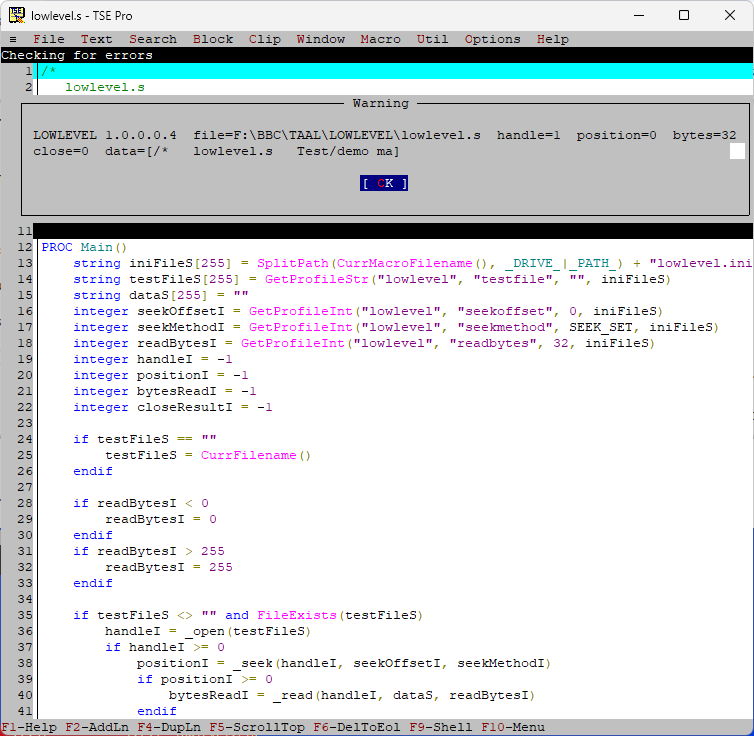
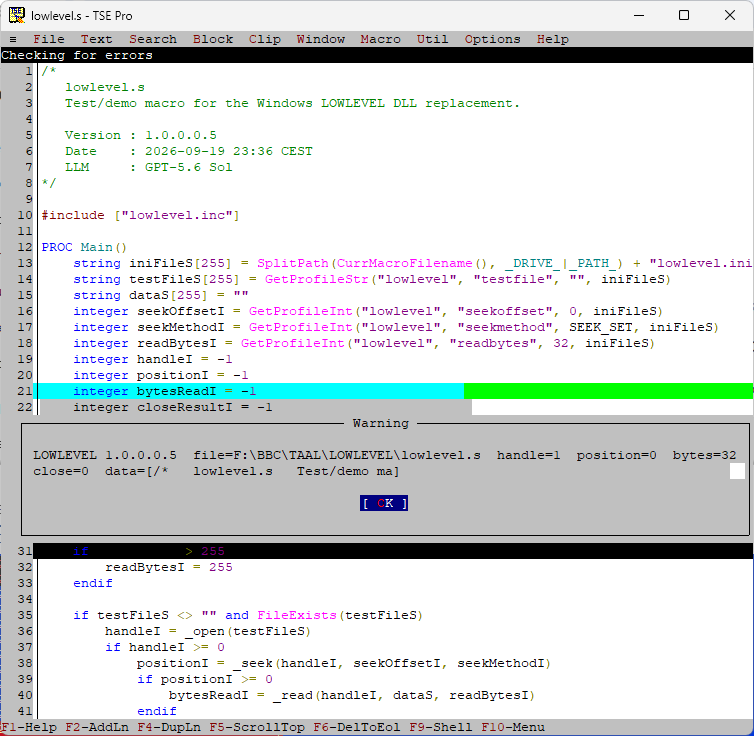
Update lowlevel directory files

diff --git a/LOWLEVEL/lowlevel.cpp b/LOWLEVEL/lowlevel.cpp
@@ -2,7 +2,7 @@
    lowlevel.cpp
    Windows replacement for the original LOWLEVEL.BIN DOS helper.
 
-   Version : 1.0.0.0.4
+   Version : 1.0.0.0.5
    Date    : 2026-09-19 23:36 CEST
    LLM     : GPT-5.6 Sol
 

diff --git a/LOWLEVEL/lowlevel_readme.md b/LOWLEVEL/lowlevel_readme.md
@@ -1,7 +1,7 @@
 # LOWLEVEL for TSE on Microsoft Windows
 
-**Version:** 1.0.0.0.4  
-**Date and time:** 2026-09-19 23:36 CEST  
+**Version:** 1.0.0.0.5  
+**Date and time:** 2026-09-20 00:08 CEST  
 **LLM:** GPT-5.6 Sol
 
 ## Description
@@ -16,7 +16,7 @@ The original package contained:
 
 The old `LOWLEVEL.BIN` is 16-bit DOS machine code. It calls DOS interrupt `21h` for opening, seeking, reading and closing a file. That binary mechanism is not appropriate for the 32-bit Microsoft Windows version of TSE.
 
-Version **1.0.0.0.4** replaces that DOS binary with a **32-bit Microsoft Windows DLL** written in C++ and intended to be compiled with **Borland C++ 5.5.1**. The public SAL interface deliberately keeps the familiar routines:
+Version **1.0.0.0.4** established the working Windows conversion. Version **1.0.0.0.5** keeps that working implementation and cleans up the package by removing the duplicate historical `LOWLEVEL.INC`. The DOS binary is replaced by a **32-bit Microsoft Windows DLL** written in C++ and intended to be compiled with **Borland C++ 5.5.1**. The public SAL interface deliberately keeps the familiar routines:
 
 ```text
 _open(path)
@@ -27,11 +27,13 @@ _close(handle)
 
 This means old SAL code that used the four LOWLEVEL operations can usually be converted simply by including the new `lowlevel.inc` and placing `lowlevel.dll` with the macro files.
 
-### Version 1.0.0.0.4 calling-convention correction
+### Working calling convention
 
-Runtime testing of version 1.0.0.0.1 showed that `_open()` and `_close()` worked, while the three-argument `_seek()` failed. A one-argument call does not reveal argument-order differences, but a multi-argument call does. Version 1.0.0.0.4 therefore changes the Borland DLL exports from `__pascal` to Win32 `__pascal`. The SAL declarations remain unchanged.
+Runtime testing established the correct interface in version **1.0.0.0.4**: the Borland DLL uses `__pascal`, and every matching SAL declaration explicitly uses the `PASCAL` modifier. With that combination, `_open()`, `_seek()`, `_read()`, and `_close()` all work correctly from TSE.
 
-Both SAL source files now include the local interface with TSE's current-directory syntax:
+Version **1.0.0.0.5** does not change that working ABI. It only removes the duplicate historical include file from the ZIP and updates the package/version documentation.
+
+Both SAL source files include the local interface with TSE's current-directory syntax:
 
 ```text
 #include ["lowlevel.inc"]
@@ -70,11 +72,12 @@ The DLL uses the **Win32 `__pascal` calling convention**. TSE's 32-bit DLL inter
 
 ### Original historical files
 
-The package also keeps the original files for reference:
+The package keeps these original files for reference:
 
 - `LOWLEVEL.ASM`
 - `LOWLEVEL.BIN`
-- `LOWLEVEL.INC`
+
+The historical `LOWLEVEL.INC` is intentionally **not** included, because Windows ZIP tools treat `LOWLEVEL.INC` and `lowlevel.inc` as the same filename and rename one of them to `LOWLEVEL(1).INC`. The package therefore contains only the working Windows include file: `lowlevel.inc`.
 
 Do **not** use the original `LOWLEVEL.BIN` with the Windows conversion.
 
@@ -186,7 +189,7 @@ lowlevel_demo.mac
 A successful result should show values similar to:
 
 ```text
-LOWLEVEL 1.0.0.0.4  position=0  bytes=80  data=[...]  close=0
+LOWLEVEL 1.0.0.0.5  handle=1  position=0  bytes=80  data=[...]  close=0
 ```
 
 A `close=0` result means `_close()` succeeded.
@@ -352,14 +355,20 @@ A typical use is examining a file header, archive signature, executable header, 
 
 ## Version 1.0.0.0.4 ABI correction
 
-Runtime testing showed that `LOWOPEN` and `LOWCLOSE` worked, while the three-argument `LOWSEEK` returned `-1`. This indicated that the handle itself was valid but the arguments of multi-parameter DLL calls were reaching the Borland Win32 entry point in the opposite order.
+Runtime testing showed that `LOWOPEN` and `LOWCLOSE` worked while the three-argument `LOWSEEK` returned `-1`. The cause was that the SAL DLL declarations did not explicitly specify the Pascal calling convention.
 
-Version 1.0.0.0.4 therefore keeps the SAL declarations unchanged but reverses the C parameter declarations for the multi-argument exports:
+Version 1.0.0.0.4 fixed this by keeping the Borland exports as `__pascal` and adding `PASCAL` to all four SAL DLL declarations in `lowlevel.inc`. With this correction, runtime testing succeeded for all four functions: `_open()`, `_seek()`, `_read()`, and `_close()`.
 
-- SAL `_seek(handle, offset, method)` maps to C `LOWSEEK(method, offset, handle)`.
-- SAL `_read(handle, buffer, bytes)` maps to C `LOWREAD(bytes, maxLen, buffer, handle)`, including the hidden TSE string maximum-length argument.
+The working interface is:
 
-This preserves the original SAL-facing API while compensating inside the DLL for the stack order used by the TSE DLL interface. The final test warning also shows the numeric handle to make runtime verification easier.
+```text
+dll "lowlevel.dll"
+    integer proc PASCAL _open(string path : cstrval) : "LOWOPEN"
+    integer proc PASCAL _seek(integer handle, integer offset, integer method) : "LOWSEEK"
+    integer proc PASCAL _read(integer handle, var string buffer, integer bytes) : "LOWREAD"
+    integer proc PASCAL _close(integer handle) : "LOWCLOSE"
+end
+```
 
 ## Version history
 
@@ -367,7 +376,7 @@ This preserves the original SAL-facing API while compensating inside the DLL for
 
 - Converted the original DOS interrupt `21h` implementation to a 32-bit Microsoft Windows DLL design.
 - Added `lowlevel.cpp` for Borland C++ 5.5.1.
-- Initially used `__pascal` exports; runtime testing later showed that multi-argument DLL calls require the Win32 `__pascal` convention used in version 1.0.0.0.4.
+- Used Borland `__pascal` exports. Runtime testing later showed that the SAL declarations also needed the explicit `PASCAL` modifier.
 - Added `lowlevel.def` with stable export names.
 - Added `build.bat`.
 - Configured `TDUMP=G:\LANGUAGE\COMPUTER\CPP\EMBARCADERO\BORLAND\BCC102\bin\tdump.exe`.
@@ -386,30 +395,31 @@ This preserves the original SAL-facing API while compensating inside the DLL for
 - Added `lowlevel_demo.s`.
 - Verified that the DLL builds and exports `LOWOPEN`, `LOWSEEK`, `LOWREAD`, and `LOWCLOSE`.
 
-### 1.0.0.0.4 - 2026-09-19 23:36 CEST
+### 1.0.0.0.2 - 2026-09-19 23:01 CEST
 
-- Changed all DLL exports from Borland `__pascal` to Win32 `__pascal` after runtime testing showed `_seek()` receiving multi-argument calls incorrectly.
 - Changed local SAL includes to `#include ["lowlevel.inc"]`.
-- Removed `EXIT /B` from the successful end of `build.bat` to avoid the extra JPSoft TCC `exit:` help line.
-- Updated `lowlevel.s`, `lowlevel_demo.s`, `lowlevel.cpp`, `lowlevel.def`, `lowlevel.inc`, and this README to version 1.0.0.0.4.
-- No precompiled `lowlevel.dll` is shipped in this iteration because the previous DLL was built from the 1.0.0.0.1 `__pascal` source. Run `build.bat` to create the corrected DLL.
+- Continued runtime testing of the DLL interface.
+
+### 1.0.0.0.3 - 2026-09-19 23:27 CEST
+
+- Added more runtime diagnostics, including the numeric LOWLEVEL handle.
+- Continued investigation of the multi-argument calling convention.
+
+### 1.0.0.0.4 - 2026-09-19 23:41 CEST
+
+- Established the working ABI.
+- Kept the DLL exports as Borland `__pascal`.
+- Added `PASCAL` explicitly to all four SAL DLL declarations in `lowlevel.inc`.
+- Verified at runtime that `_open()`, `_seek()`, `_read()`, and `_close()` all succeed.
+
+### 1.0.0.0.5 - 2026-09-20 00:08 CEST
+
+- Removed the duplicate historical `LOWLEVEL.INC` from the ZIP.
+- The package now contains exactly one include file: `lowlevel.inc`.
+- Kept `LOWLEVEL.ASM` and `LOWLEVEL.BIN` as historical reference files.
+- Kept the fully working 1.0.0.0.4 DLL/SAL calling convention unchanged.
+- Updated version numbers and this README.
 
 ## Important build note
 
 This package contains the complete C++ DLL source and Borland build script. The DLL binary itself must be produced by running `build.bat` on Windows with Borland C++ 5.5.1 available. The current packaging environment does not contain the Borland compiler, so it cannot truthfully include a Borland-built `lowlevel.dll` binary yet.
-
-
-## Version 1.0.0.0.4 correction
-
-The Windows DLL is compiled with Borland `__pascal`, and every corresponding SAL DLL declaration now explicitly includes the `PASCAL` modifier. This is required by TSE for Pascal-calling-convention DLL functions. Earlier versions omitted `PASCAL` in `lowlevel.inc`, so one-argument calls could appear to work while multi-argument calls such as `_seek()` received arguments incorrectly.
-
-The interface is now:
-
-```text
-dll "lowlevel.dll"
-    integer proc PASCAL _open(string path : cstrval) : "LOWOPEN"
-    integer proc PASCAL _seek(integer handle, integer offset, integer method) : "LOWSEEK"
-    integer proc PASCAL _read(integer handle, var string buffer, integer bytes) : "LOWREAD"
-    integer proc PASCAL _close(integer handle) : "LOWCLOSE"
-end
-```
